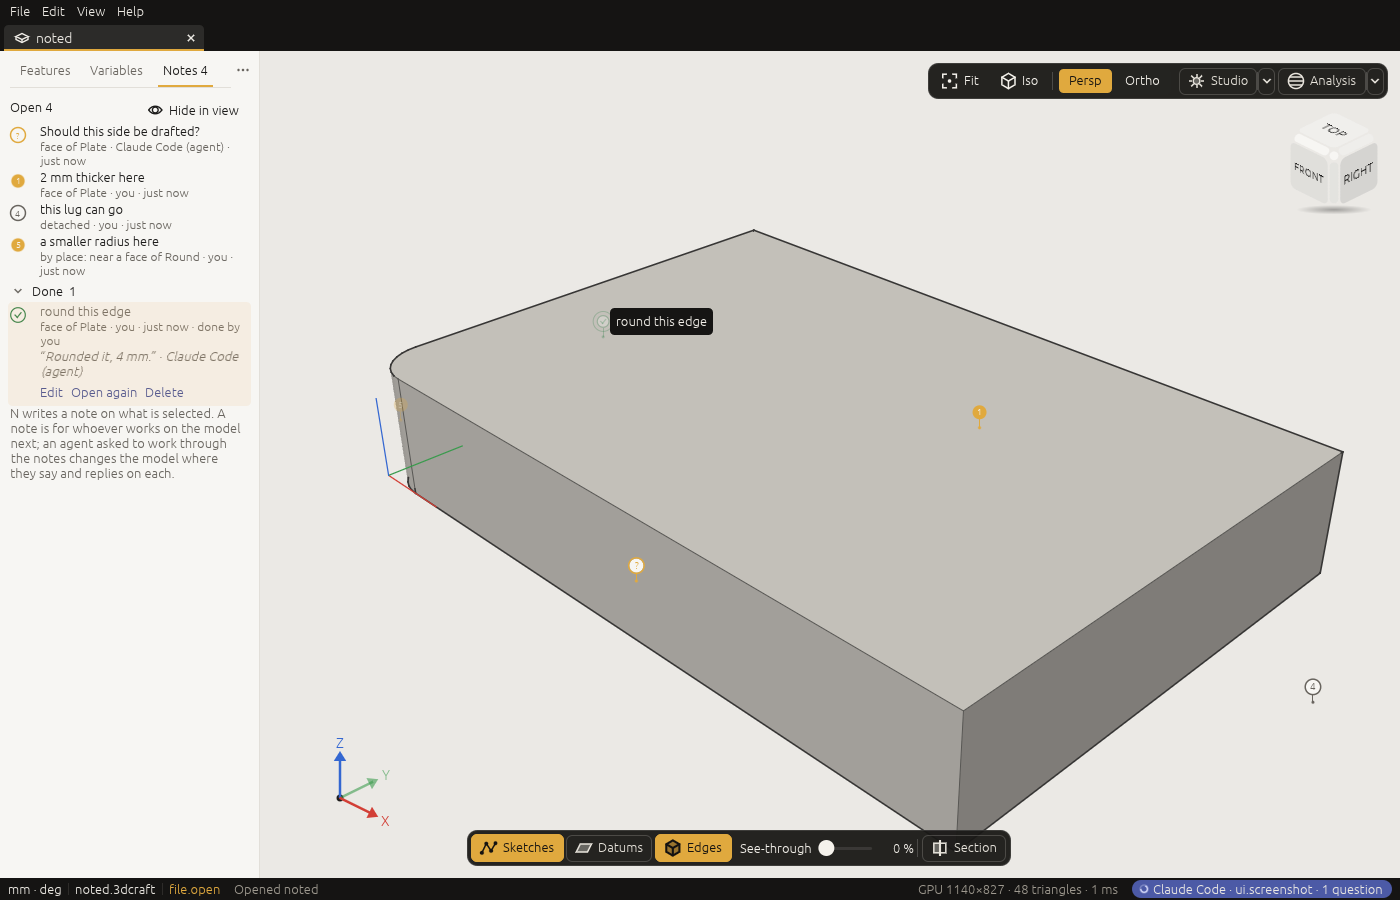
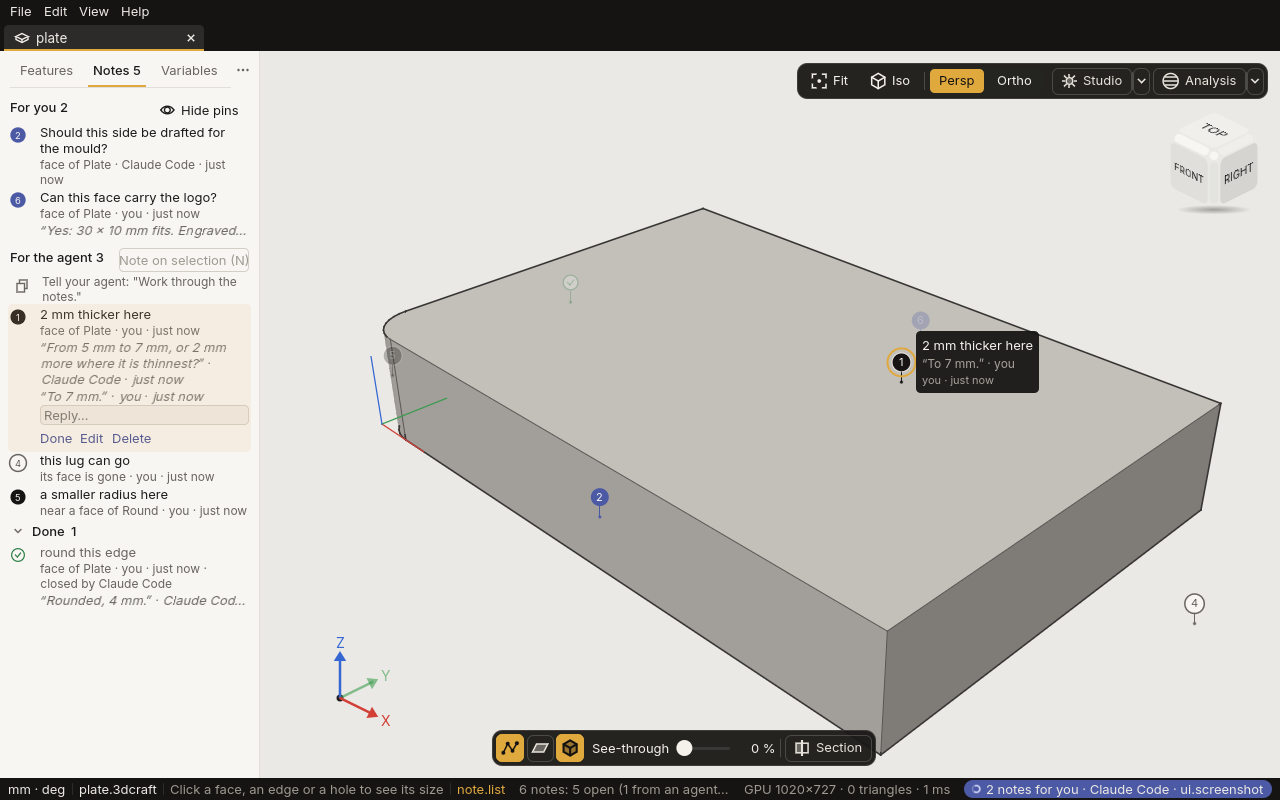
Notes, from the pictures of the merged build: no pin over the section's plate; Note on selection is a faint link, not a disabled field, and a click on it says why; the guide's notes picture from the window

diff --git a/crates/ui-egui/src/shell/sidepanel/notes.rs b/crates/ui-egui/src/shell/sidepanel/notes.rs
@@ -334,13 +334,28 @@ impl Shell {
                         let link = |ui: &mut egui::Ui,
                                         hits: &mut Vec<(String, egui::Rect)>,
                                         asked: &mut Option<Asked>| {
-                            let button = kit
-                                .button(
-                                    ui,
-                                    Button::link("Note on selection (N)").enabled(refusal.is_none()),
+                            // A link's words, faint while it cannot write
+                            // (not a disabled button's box, which reads as
+                            // a field); a click on the faint one says why,
+                            // as touch has no hover.
+                            let ink = if refusal.is_some() { s.faint } else { s.info_ink };
+                            let cursor = if refusal.is_some() {
+                                egui::CursorIcon::Default
+                            } else {
+                                egui::CursorIcon::PointingHand
+                            };
+                            let button = ui
+                                .add(
+                                    egui::Label::new(
+                                        egui::RichText::new("Note on selection (N)")
+                                            .font(kit.font())
+                                            .color(color(ink)),
+                                    )
+                                    .selectable(false)
+                                    .sense(egui::Sense::click()),
                                 )
-                                .on_hover_text("Write a note on what is selected")
-                                .on_disabled_hover_text(refusal.unwrap_or_default());
+                                .on_hover_text(refusal.unwrap_or("Write a note on what is selected"))
+                                .on_hover_cursor(cursor);
                             hits.push(("note on selection".to_string(), button.rect));
                             if button.clicked() {
                                 *asked = Some(Asked::NoteOnSelection);

diff --git a/crates/ui-egui/tests/notes.rs b/crates/ui-egui/tests/notes.rs
@@ -920,6 +920,36 @@ fn n_says_why_it_cannot_write() {
     assert_eq!(shell.status_hint(), Some(SELECT_ONE));
 }
 
+/// N5: the tab's *Note on selection (N)*, faint while nothing is
+/// selected, says why on a click (touch has no hover) and opens no field;
+/// with one face selected it opens the field.
+#[test]
+fn note_on_selection_in_the_tab_says_why_or_writes() {
+    use craft3d_ui_egui::shell::notes::SELECT_FIRST;
+    let mut session = noted();
+    let mut w = Window::new(1280.0, 800.0);
+    let mut shell = open(&mut w, &mut session);
+    set(
+        &mut shell,
+        &mut session,
+        json!({"panels": {"sideTab": "notes"}}),
+    );
+    w.frames(&mut shell, &mut session, 3);
+    let link = side_target(&shell, "note on selection").expect("the link");
+    w.click(&mut shell, &mut session, link.center());
+    assert!(shell.note_writing().is_none());
+    assert_eq!(shell.status_hint(), Some(SELECT_FIRST));
+    run(
+        &mut session,
+        "select.set",
+        json!({"names": ["F2:copy(0)/F1:face(1)"]}),
+    );
+    w.frames(&mut shell, &mut session, 2);
+    let link = side_target(&shell, "note on selection").expect("the link");
+    w.click(&mut shell, &mut session, link.center());
+    assert!(shell.note_writing().is_some(), "the field on the face");
+}
+
 /// N6: in a Jig in use **N** says where its notes are written and opens
 /// no field; a refused Delete shows its reason under its row, in a
 /// person's words, the command's own as the hover.
@@ -1054,6 +1084,16 @@ fn a_section_leaves_no_full_pin_in_the_half_it_cuts_away() {
     let ids: Vec<u64> = shell.note_markers().0.iter().map(|(id, _)| *id).collect();
     assert_eq!(ids, vec![3 - gone], "{state}");
     assert_eq!(shell.note_pins_drawn(), 2, "drawn faint all the same");
+    // No pin over the section's plate (the pictures of 2026-11-18).
+    let plate = shell.section_handle().map(|h| h.group).expect("the plate");
+    assert!(
+        shell
+            .note_markers()
+            .0
+            .iter()
+            .all(|(_, head)| !plate.contains(*head)),
+        "{plate:?}"
+    );
     set(
         &mut shell,
         &mut session,

diff --git a/crates/ui-egui/src/shell/notes.rs b/crates/ui-egui/src/shell/notes.rs
@@ -1298,7 +1298,8 @@ impl Shell {
             return Vec::new();
         };
         let origin = view.min.to_vec2();
-        self.controls_layout
+        let mut covered: Vec<egui::Rect> = self
+            .controls_layout
             .as_ref()
             .map(|l| {
                 l.parts()
@@ -1306,7 +1307,13 @@ impl Shell {
                     .map(|(_, r)| r.translate(-origin))
                     .collect()
             })
-            .unwrap_or_default()
+            .unwrap_or_default();
+        // The section's plate beside its cut is a control of the view too
+        // (the pictures of 2026-11-18: a pin stood over its buttons).
+        if let Some(handle) = self.section_handle() {
+            covered.push(handle.group.translate(-origin));
+        }
+        covered
     }
 
     /// Draws the notes' pins into `rgb`, a picture of the view of `size`
